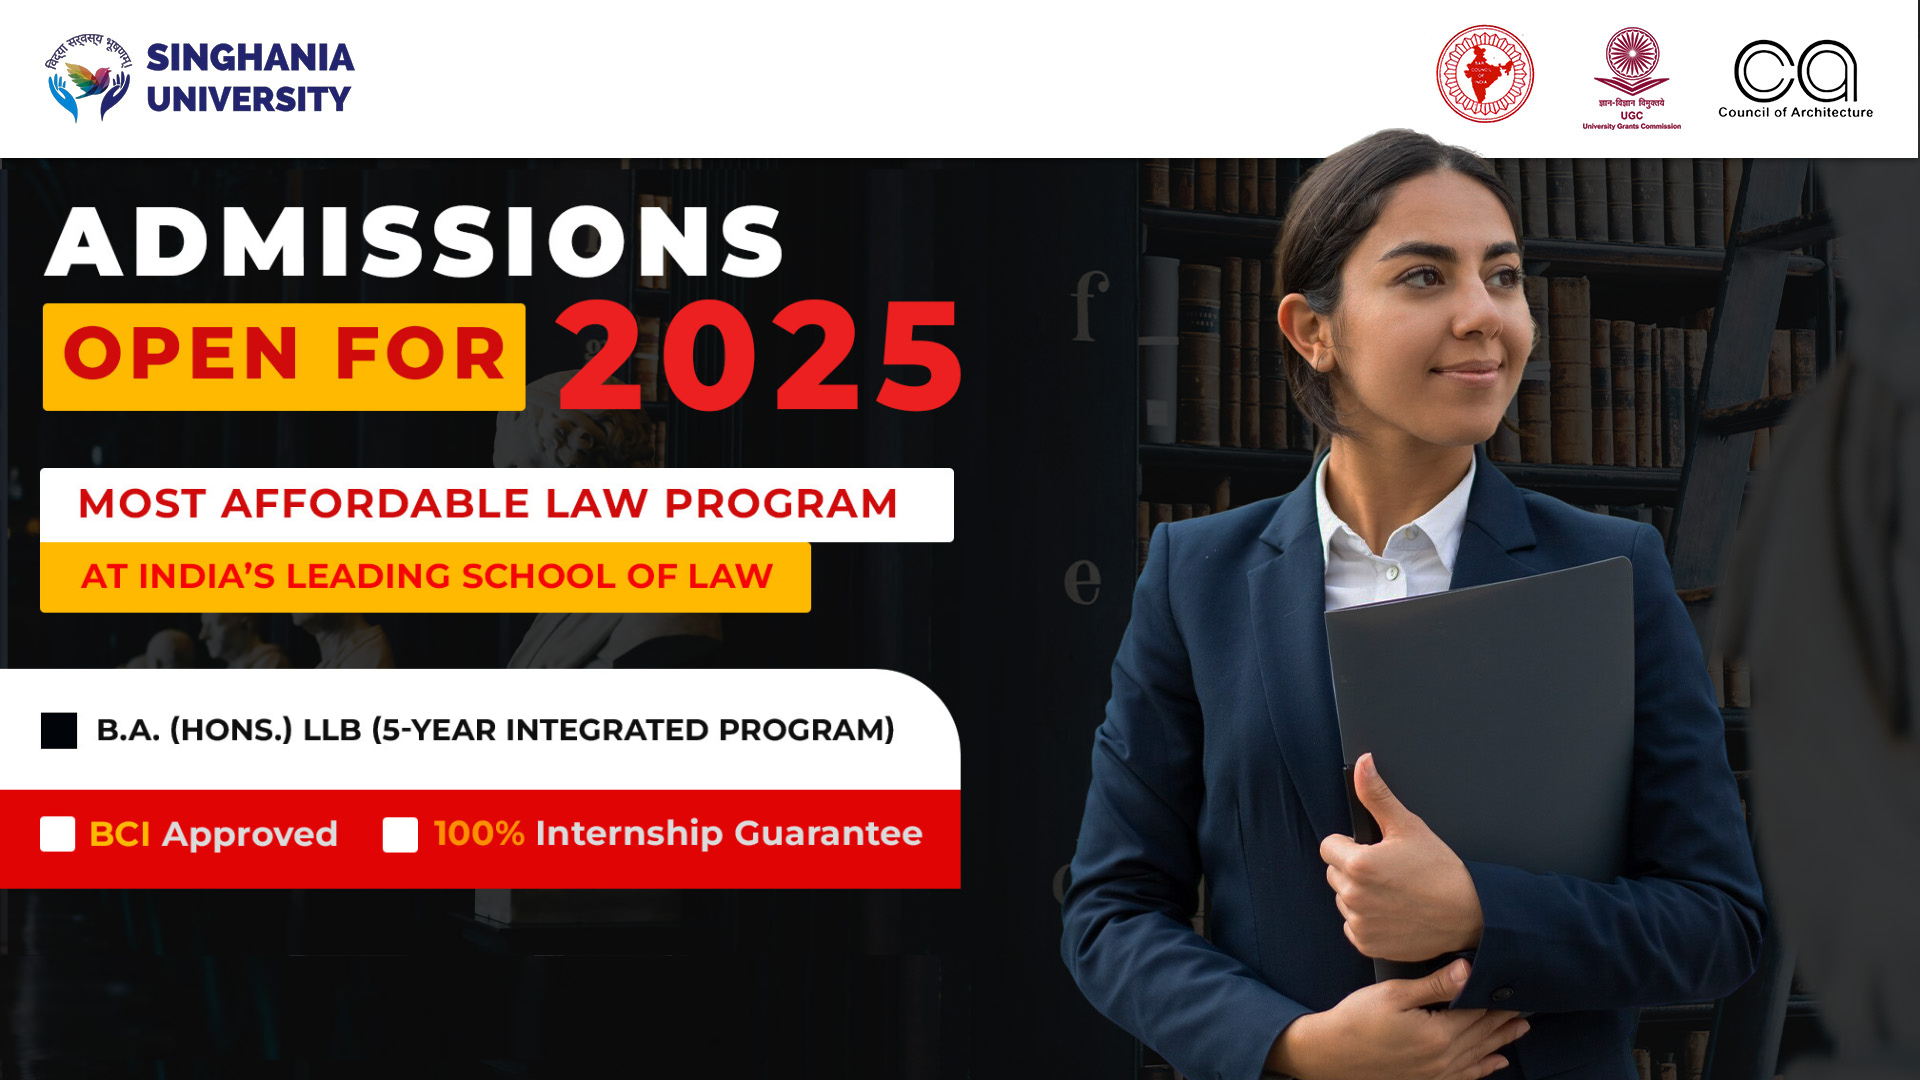
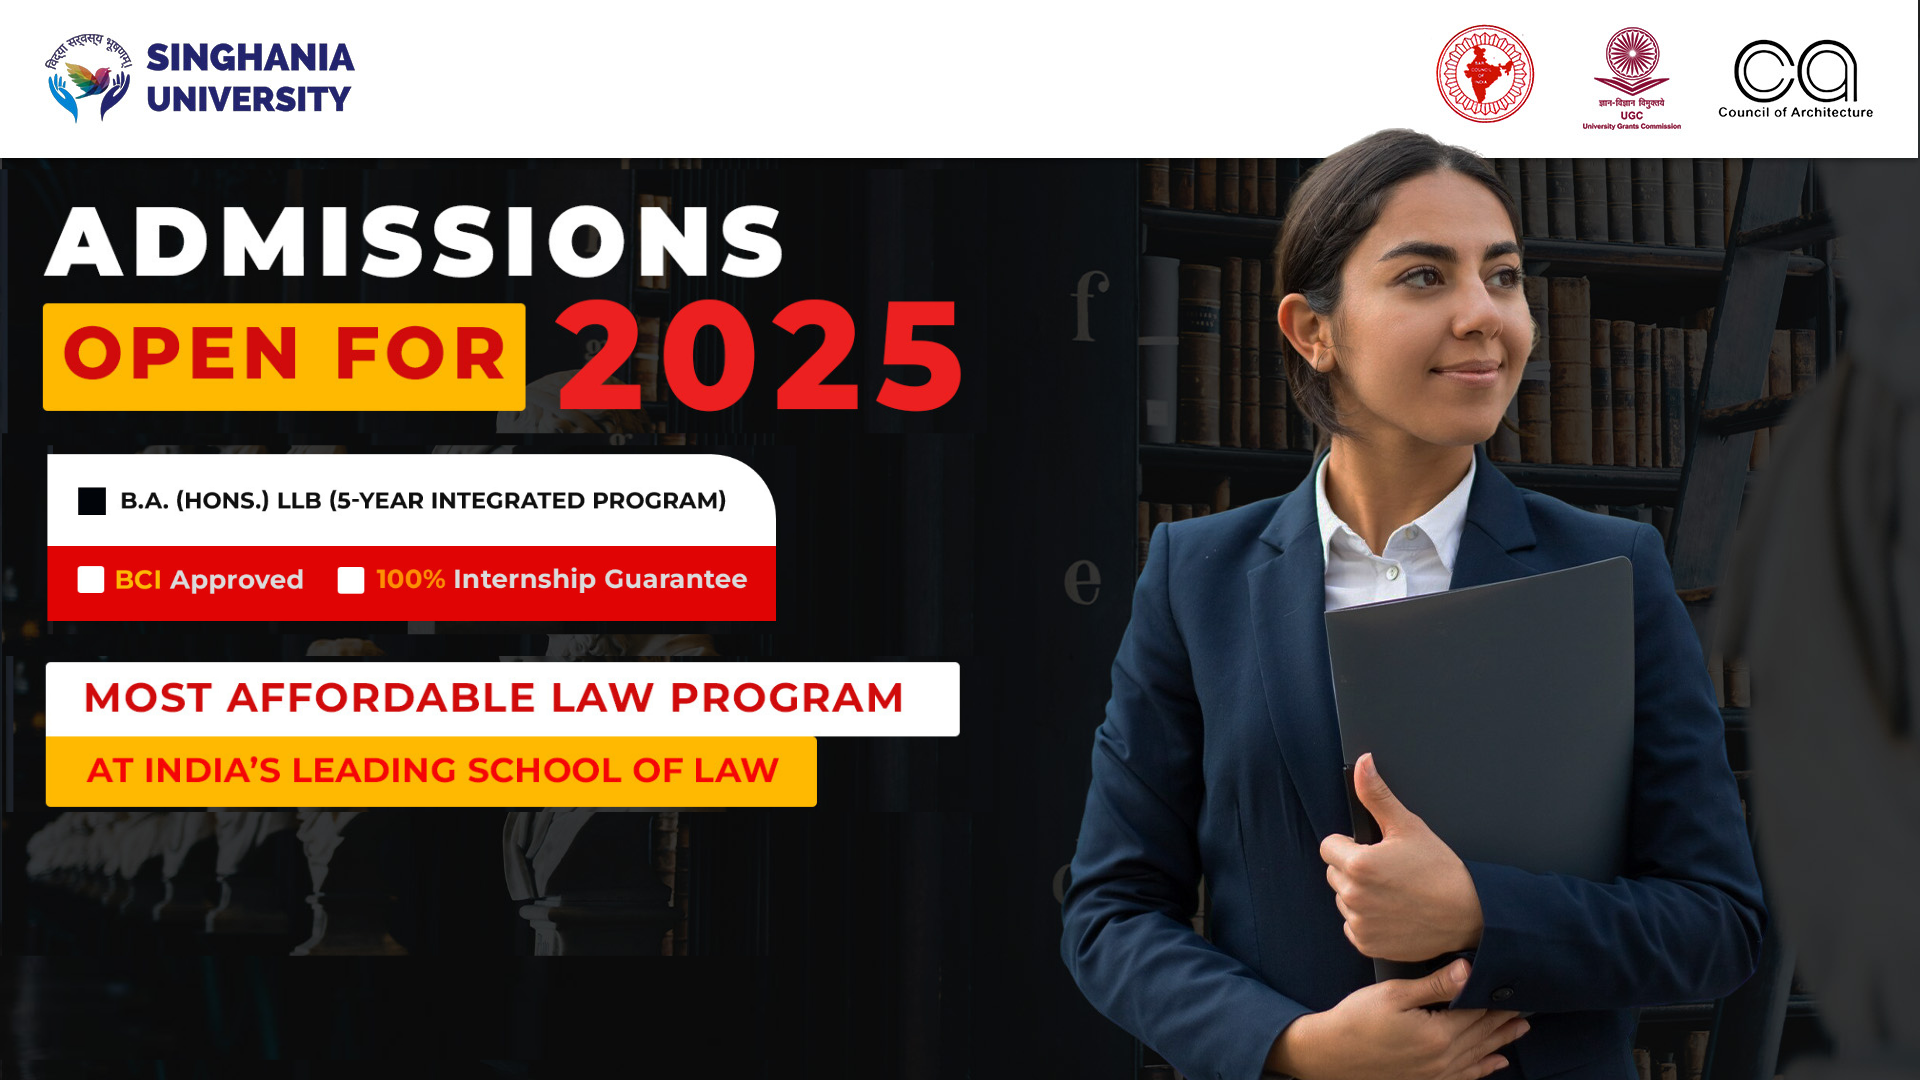
fixed latest again

Changed region(s): [[0.0, 0.3972, 0.5, 0.8861]]

diff --git a/index.html b/index.html
@@ -83,6 +83,9 @@
     .apply-btn {
         transform: translateX(-10%) translateY(-120px);
     }
+    .mb-5 {
+        margin-bottom: 0rem !important;
+    }
 }
 
 /* Dark Overlay */
@@ -1258,7 +1261,7 @@
         .my-5{
             margin-top: 0rem !important;
 
-        }
+        }        
     }
 </style>
 
